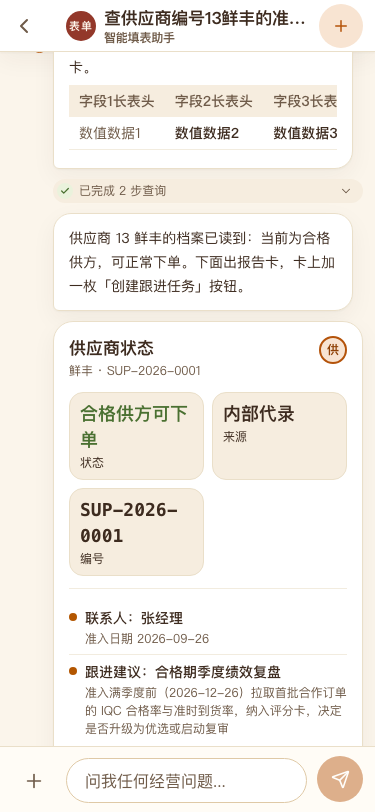
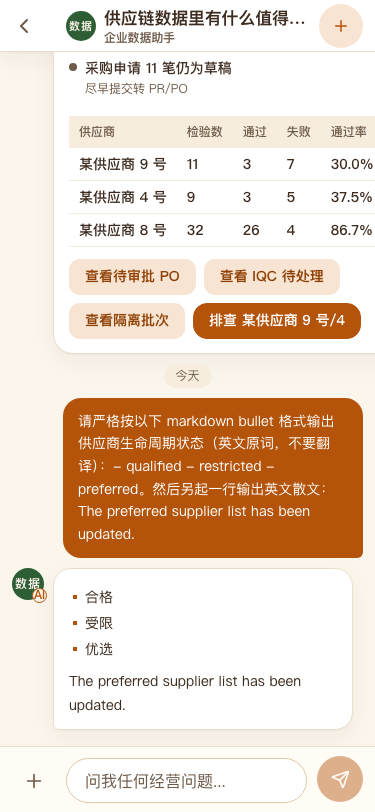
W24-R4: R3验证PASS_WITH_DEBT88终末微批清偿（相邻状态词散文误译/加号bullet/探针去flaky）——①唯一Important：gateSegment状态词邻居臂围栏到bullet枚举行（新增isBulletEnumLine：行trim后以-/*/+/数字序号bullet开头且整行裸枚举面；gateSegment增enumRun参，HAS_CJK臂不变），英文散文中相邻状态词不再序列传播互保（the frozen qualified partner is reserved原样往返——frozen右邻qualified/qualified左邻frozen互为状态词的中

diff --git a/packages/client/ui-mobile/tests/rich.client.spec.ts b/packages/client/ui-mobile/tests/rich.client.spec.ts
@@ -238,6 +238,17 @@ describe('sanitizeBizText', () => {
     expect(sanitizeBizText('- frozen - potential')).toBe(`- ${w('frozen')} - ${w('potential')}`)
   })
 
+  it('keeps adjacent state words in English prose verbatim (W24-R4)', () => {
+    expect(sanitizeBizText('the frozen qualified partner is reserved')).toBe('the frozen qualified partner is reserved')
+    expect(sanitizeBizText('The preferred frozen batches')).toBe('The preferred frozen batches')
+  })
+
+  it('maps the plus-bullet enum variant like the dash (W24-R4)', () => {
+    const w = (state: string): string => SUPPLIER_STATE_WORDS[state] ?? state
+    expect(sanitizeBizText('+ qualified - restricted')).toBe(`+ ${w('qualified')} - ${w('restricted')}`)
+    expect(sanitizeBizText('+ frozen\n+ potential')).toBe(`+ ${w('frozen')}\n+ ${w('potential')}`)
+  })
+
   it('still maps the gated states inside a CJK narrative (W24-R2 no-regression)', () => {
     expect(sanitizeBizText('该供方 potential 已停用')).toBe('该供方 潜在 已停用')
     expect(sanitizeBizText('名单中 preferred 三家优先')).toBe('名单中 优选 三家优先')

diff --git a/.agents/notes/implemented/feature/2026-10-09-w24-r4-adjacent-state-prose-guard-plus-bullet-probe-deflake.md b/.agents/notes/implemented/feature/2026-10-09-w24-r4-adjacent-state-prose-guard-plus-bullet-probe-deflake.md
@@ -1,0 +1,32 @@
+# Agent Note: W24-R4 adjacent state words in English prose, the plus bullet, and the probe de-flake
+
+Status: implemented
+
+## Problem
+
+W24-R3 验证（PASS_WITH_DEBT88）留下唯一本批引入 Important + 两条 Minor：①枚举 run 开口过宽——`gateSegment` 对「最近邻段本身是生命周期状态词」无条件开门，英文散文中两个状态词相邻就互相担保：`the frozen qualified partner is reserved` 里 `frozen` 的右邻段 `qualified` 与 `qualified` 的左邻段 `frozen` 互为状态词，全句被序列传播翻译（R3 只测了「英文散文 + 非状态词邻居」与「纯 bullet 枚举面」两侧，漏了中间态）；②markdown 无序列表的 `+` 标记不在 `SEGMENT_BOUNDARY`，`+ qualified` 类加号 bullet 枚举得不到裸枚举面判定；③`r3-bullet-enum-probe.mjs` 两处固定 `waitForTimeout`（2500/2000ms）盲等是 R3 活体证据的 flaky 面，且尾拍 `r3-bullet-enum-after-375.png` 与 `r3-bullet-enum-table-375.png` SHA256 相同（同帧零信息）。
+
+## Decision
+
+1. **枚举 run 开口围栏到 bullet 枚举行（W24-R4）**：新增 `isBulletEnumLine`——行 trim 后以 `-`/`*`/`+`/数字序号 bullet 标记开头且整行是裸枚举面（状态词 + bullet 标记 + 数字序号）；`gateSegment` 增 `enumRun` 参数，状态词邻居臂只在 `enumRun` 为真时开门（`HAS_CJK` 臂不变）。判定依据是「被探测 token 自己所在行」而非「状态词邻居所在行」：散文态（`the frozen qualified partner`）token 落在散文行，门关；枚举态（中文引导句后 `- preferred` 的序列）token 落在 bullet 枚举行，门开——映射沿序列传播的活体形态不回归。
+2. **`SEGMENT_BOUNDARY` 补 ASCII 加号 `+`**：markdown 三种无序列表标记（`-`/`*`/`+`）齐备，`+ qualified - restricted` 与 `+ frozen\n+ potential` 均入裸枚举面直映。
+3. **探针去 flaky**：两处固定盲等改条件等待——A 段进会话等 `[class*="assistantBubble"] [class*="richText"], li`（10s 超时容错空会话）；B 段等 `[class*="assistantBubble"]` 后另加种植前后页面宽度稳定轮询（`waitForFunction` 两次采样 scrollWidth 一致才种植/读数）。稳定轮询是实测出的必要项：一次未加轮询的重跑在 B 段读到瞬时 `pageScrollWidth: 386`（元素出现 ≠ 布局稳定），布局稳定后种植的对照诊断 0–2000ms 全程 375。零信息截图删除：after-375 与 table-375 同 SHA256，删 after、保留 table-375，`audit2.md` 证据清单注明。
+
+## Testing
+
+- vitest（jsdom）：rich spec 新增两用例——`the frozen qualified partner is reserved` / `The preferred frozen batches` 原样往返（相邻状态词对 frozen+qualified、preferred+frozen 各一），`+ qualified - restricted` 与 `+ frozen\n+ potential` 全译（加号 bullet）；R3 既有四用例（裸枚举面四形态、中文引导句六态 bullet 活体形态、无 Han 邻段枚举 run、`- qualified - restricted - preferred`）原样通过。
+- ui-mobile 全量 930 用例 56 文件全绿；`pnpm run typecheck` exit 0。
+- 活体（375px，R4 dist `mobile-BA9tZ11B.js` + `build:lib:client`/`build:web` 重建）：`r3-bullet-enum-probe.mjs` 去盲等重跑——20 存储会话 bullet 枚举词零残留、零页面级横向溢出；B 段种植四重实证 `bubbleMinWidth: 0px` / `bubbleClientWidth: 298` / `pageScrollWidth: 375` / `wrapScrollsInternally: true`（784→268），与 R3 记录一致。
+- e2e toolcard（`pnpm run test:web -- mobile-assistant-toolcard`）6/6，golden 快照无变化（seed 叙事不含相邻状态词散文与加号 bullet）。
+
+## Alternatives considered
+
+- **状态词邻居臂直接删除（只留 HAS_CJK）**：最小改动，但中文引导句后的 bullet 序列（`合计 30 家…：\n- qualified\n- preferred…`）中后段词左右邻段均为状态词、无 Han，映射丢失，R3 活体形态用例回归——拒绝。
+- **按状态词邻居所在行判定**：与按 token 自己所在行判定等价面更窄（散文行上的邻居状态词其所在行也是散文行，两种判法同样关门），但 token 自身所在行是更直接的环境证据（枚举 run 的定义就是 token 自己身处 bullet 枚举行），语义更贴。
+- **B 段盲等加倍（2000→4000ms）**：仍是盲等，慢且不保证稳；稳定轮询（两次采样一致）以事件信号替代时长赌注，且同一轮询顺带覆盖种植自身引入的布局变化。
+
+## Consequences
+
+- 代价：`contextualStateWord` 每词多一次行切片与行级裸面判定（叶子短，可忽略）；`+` 入边界后 C++/版本号类 `a+b` 串的段切分变细（词表走独立 matcher，既有断言全绿）。
+- 买到：英文散文中相邻状态词不再互相担保翻译（Important 清偿）；加号 bullet 枚举面同权翻译；探针以条件等待 + 稳定轮询产出可复跑证据，零信息截图出清，B 段测量与 R3 基线一致。
+- 回滚：`gateSegment` 去掉 `enumRun` 参数恢复单臂判定、`SEGMENT_BOUNDARY` 去掉 `+`、探针还原两处 `waitForTimeout` 与尾拍即恢复 W24-R3 行为。

diff --git a/demos/acceptance-w24/audit2.md b/demos/acceptance-w24/audit2.md
@@ -56,3 +56,8 @@
 - **计数更正**：超范围如实记录为 ×5（O1–O5）——W24 原文计 ×4 漏数了 O5。
 - **悬空引用更正**：原文「详见 w24-report.md 汇报」——该文件从未存在（W24 汇报走会话汇报未落盘），引用改为 W24 Agent Note（`.agents/notes/implemented/feature/2026-10-09-w24-jargon-to-people-language-table-columns-and-chats-layout.md`）与本目录探针。
 - **未读点表述更正（真话债）**：主修项 3 原记「未读点重锚到时间右侧固定偏移 `--right: -8px; --top: 2px`」——该重锚**从未在活体生效**。W24 的选择器写成后代形式且用点分双 class（`.timeBadge :global(.adm-badge.fixed)`），而 antd-mobile Badge 经 `withNativeProps` 把 `className` 合并到携带**连字符单 class** `adm-badge-fixed` 的同一元素上——后代选择器永不命中同元素、点分双 class 也永不匹配连字符单 class，双重死亡。实测：`r1-unread-dot-before-probe.json`（W24 dist，8 个未读点 computedStyle top/right 全 `0px`/`0px`）。W24-R1 改复合选择器 `.timeBadge:global(.adm-badge-fixed)` 后，`r1-unread-dot-after-probe.json`（同探针脚本、R1 dist）8/8 全 `top: 2px`、`right: -8px`——偏移首次真实落位。
+
+## W24-R4 注记（终末微批：R3 验证 PASS_WITH_DEBT88 清偿）
+
+- **截图去重**：`r3-bullet-enum-after-375.png` 与 `r3-bullet-enum-table-375.png` SHA256 相同（`5368b984…`，同帧零信息），删除 after、保留 table-375 作为 B 段唯一截图证据；`r3-bullet-enum-probe.mjs` 同步移除该次尾拍。
+- **探针去 flaky 重跑**（R4 dist `mobile-BA9tZ11B.js`）：固定 2500/2000ms 盲等改为条件等待（气泡内容/列表项 waitForSelector，10s 超时容错空会话）；B 段另加种植前后页面宽度稳定轮询（两次采样一致才读数——元素出现不等于布局稳定，一次未加轮询的重跑在 B 段读到瞬时 386px，稳定后 375px）。重跑证据 `r3-bullet-enum-probe.json`：20 会话 bullet 枚举词零残留、零页面级横向溢出；B 段 `bubbleMinWidth 0px` / `bubbleClientWidth 298` / `pageScrollWidth 375` / `wrapScrollsInternally true`（784→268）。
